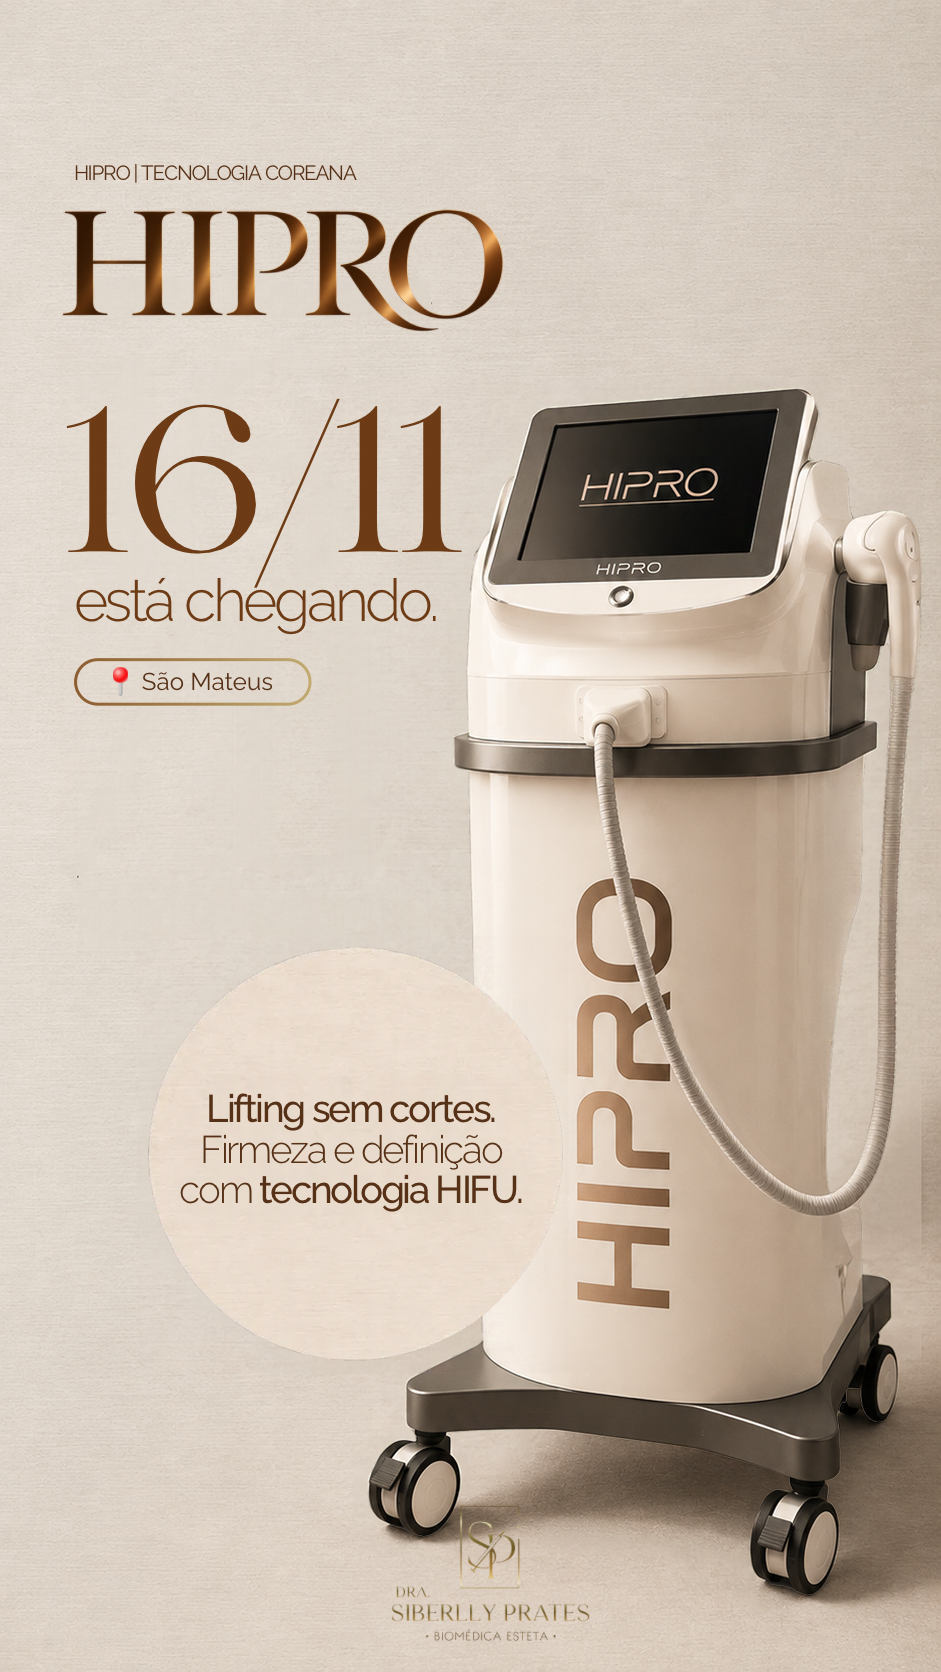
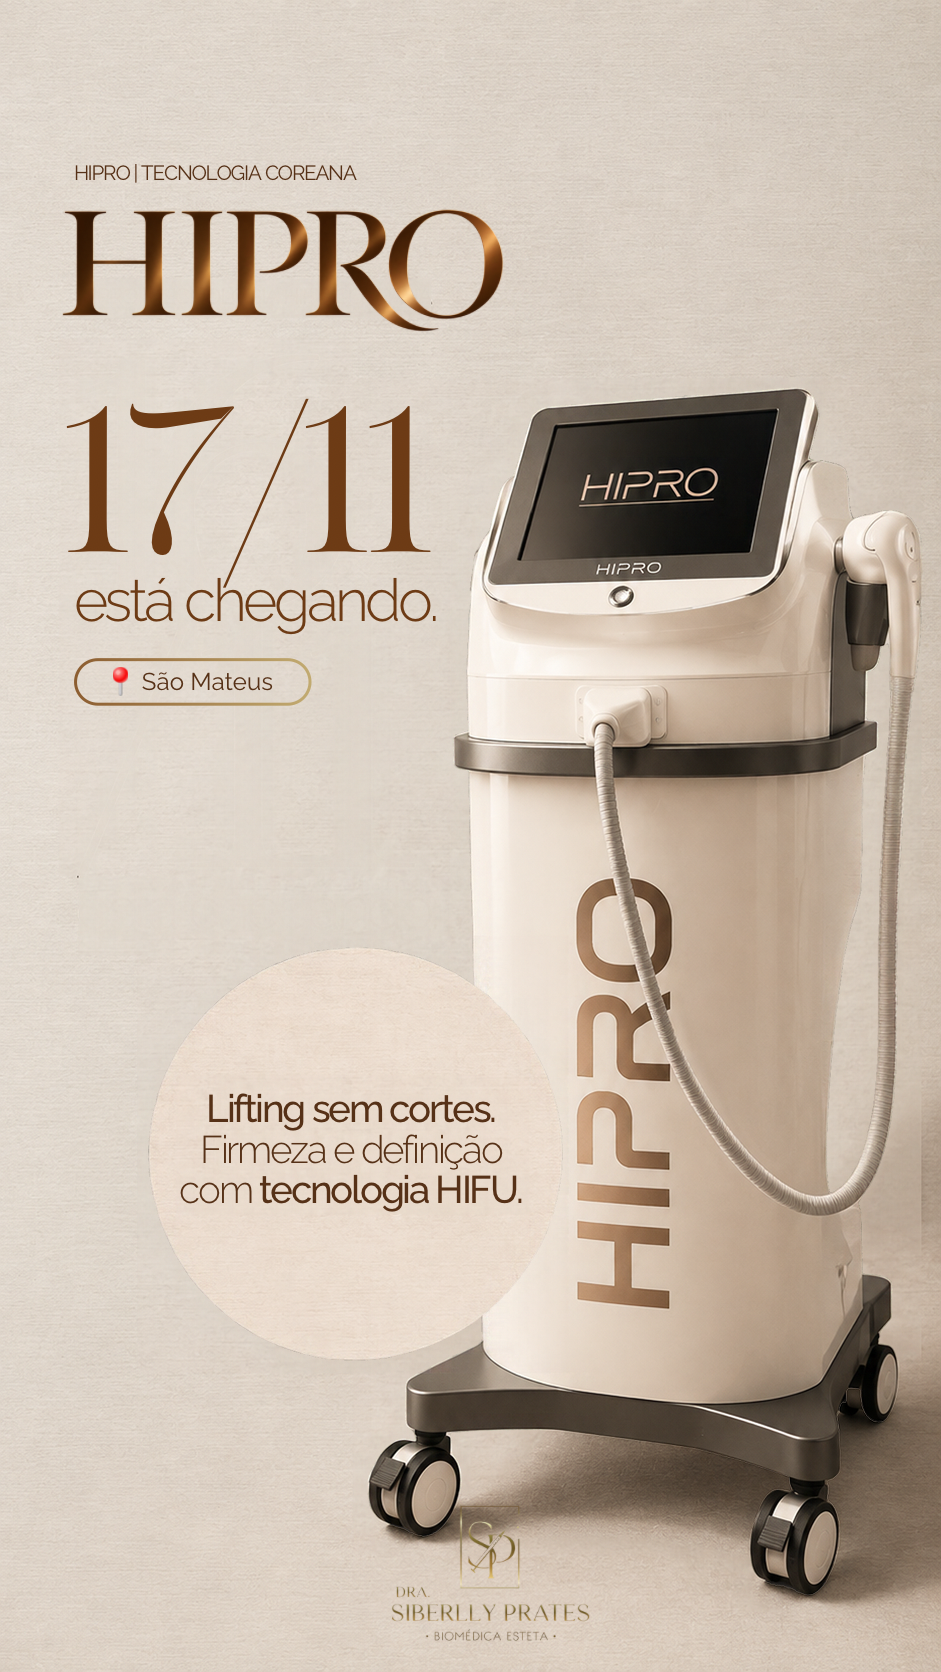
Atualiza data do lançamento HIPRO para 17/11
Claude-Session: https://claude.ai/code/session_017pNzc4J2TAY8UVPhcXVoC8

Changed region(s): [[0.3082, 0.2488, 0.4931, 0.3421], [0.1233, 0.2177, 0.3082, 0.3421]]

diff --git a/src/Hipro/HiproMotion.tsx b/src/Hipro/HiproMotion.tsx
@@ -32,7 +32,7 @@ export const hiproDefaultProps: z.infer<typeof hiproSchema> = {
       title: "Lifting sem cortes",
       message: "Firmeza e definição com tecnologia HIFU.",
     },
-    { title: "Data marcada", message: "16/11 está chegando." },
+    { title: "Data marcada", message: "17/11 está chegando." },
     { title: "Não perca", message: "Fique de olho nas novidades!" },
   ],
 };
